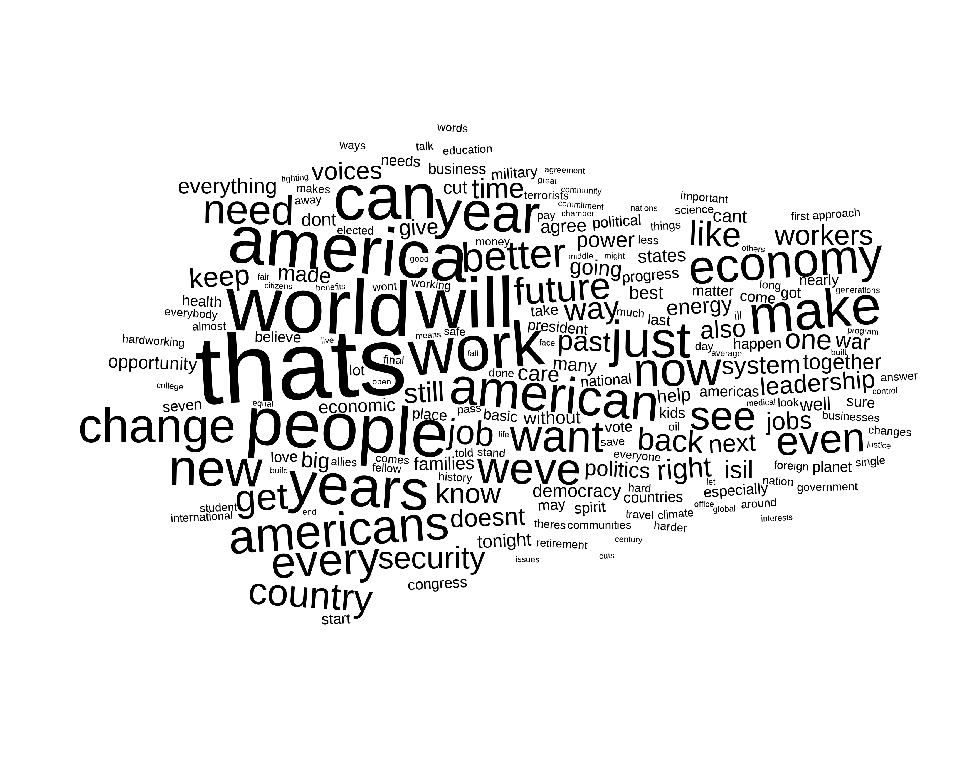
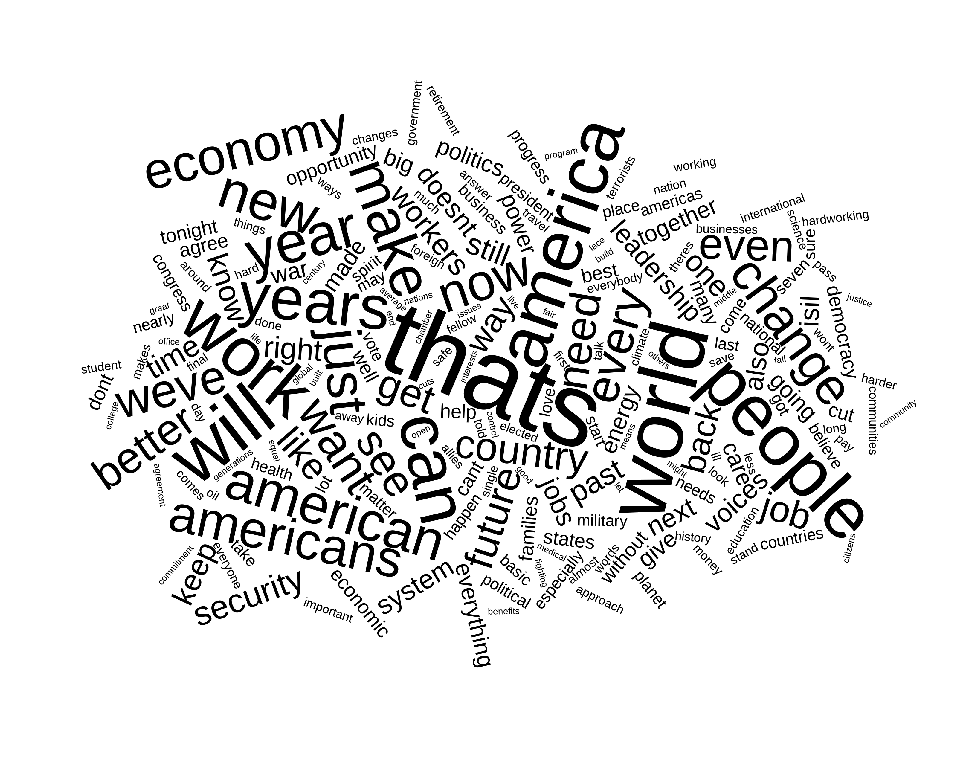
Update readme

diff --git a/README.md b/README.md
@@ -1,14 +1,13 @@
 
 <!-- README.md is generated from README.Rmd. Please edit that file -->
 
-# cloudr
+# cloudr - bitmap (using fontr)
 
 <!-- badges: start -->
 
 <!-- badges: end -->
 
-**This is a personal project. It is just for fun and it is not working
-properly at the moment**
+## **This is a personal project and a work in progress. It is not working properly**
 
 I’ve had a go at producing word cloud type graphics in R in order to
 learn and devlop my coding skill. Personally I don’t believe that word
@@ -16,12 +15,10 @@ clouds are a particularly useful or insightful way to visualise text
 analysis, but I do think they can look rather pretty and be good fun to
 make.
 
-I’m not really interested in developing code to extract words and their
-respective weights from a body of text. Here I am just interested in how
-to place the words (scaled to their weighting) on the page in the form
-of a word cloud. As such, the code im developing here needs to be
-supplied with a vector of words and a vector of their weights from which
-a word cloud will be generated.
+This ‘bitmap’ version of `cloudr` uses Yixuan’s rather marvellous
+[fontr](https://github.com/yixuan/fontr) package in order to return
+bitmaps of the character glyphs. This allows for much faster collision
+detection of matrices.
 
 ## Add package to search path
 
@@ -70,22 +67,6 @@ cloudr::bmwc(cloudr::obama[1:200,],
 
 <img src="man/figures/README-unnamed-chunk-4-1.png" style="display: block; margin: auto;" />
 
-``` r
-cloudr::bmwc(cloudr::obama[1:50,],
-             min_size = 30,
-             max_size = 350,
-             v_buffer = 48,
-             h_buffer = 30,
-             spiral_step = 20,
-             spiral_length = 80,
-             angle_range = c(0, 0),
-             buffer = 5,
-             seed = 1)
-#> All words placed
-```
-
-<img src="man/figures/README-unnamed-chunk-5-1.png" style="display: block; margin: auto;" />
-
 ### A little bit of wobble
 
 ``` r
@@ -100,7 +81,7 @@ cloudr::bmwc(cloudr::obama[1:200,],
 #> All words placed
 ```
 
-<img src="man/figures/README-unnamed-chunk-6-1.png" style="display: block; margin: auto;" />
+<img src="man/figures/README-unnamed-chunk-5-1.png" style="display: block; margin: auto;" />
 
 ### Random angles
 
@@ -116,7 +97,7 @@ cloudr::bmwc(cloudr::obama[1:200,],
 #> All words placed
 ```
 
-<img src="man/figures/README-unnamed-chunk-7-1.png" style="display: block; margin: auto;" />
+<img src="man/figures/README-unnamed-chunk-6-1.png" style="display: block; margin: auto;" />
 
 ### Change font
 
@@ -135,7 +116,7 @@ cloudr::bmwc(cloudr::obama[1:200,],
 #> All words placed
 ```
 
-<img src="man/figures/README-unnamed-chunk-8-1.png" style="display: block; margin: auto;" />
+<img src="man/figures/README-unnamed-chunk-7-1.png" style="display: block; margin: auto;" />
 
 \#\#\#Increase word buffer
 
@@ -151,7 +132,7 @@ cloudr::bmwc(cloudr::obama[1:200,],
 #> All words placed
 ```
 
-<img src="man/figures/README-unnamed-chunk-9-1.png" style="display: block; margin: auto;" />
+<img src="man/figures/README-unnamed-chunk-8-1.png" style="display: block; margin: auto;" />
 
 ## Example of buffer
 
@@ -160,11 +141,10 @@ word <- word_mat("aaaaabbbbb", weight=50, rot=0)
 plot_mat(word)
 ```
 
-<img src="man/figures/README-unnamed-chunk-10-1.png" style="display: block; margin: auto;" />
+<img src="man/figures/README-unnamed-chunk-9-1.png" style="display: block; margin: auto;" />
 
 ``` r
-
 plot_mat(add_buffer(word, buffer = 10, fill = 50))
 ```
 
-<img src="man/figures/README-unnamed-chunk-10-2.png" style="display: block; margin: auto;" />
+<img src="man/figures/README-unnamed-chunk-9-2.png" style="display: block; margin: auto;" />
